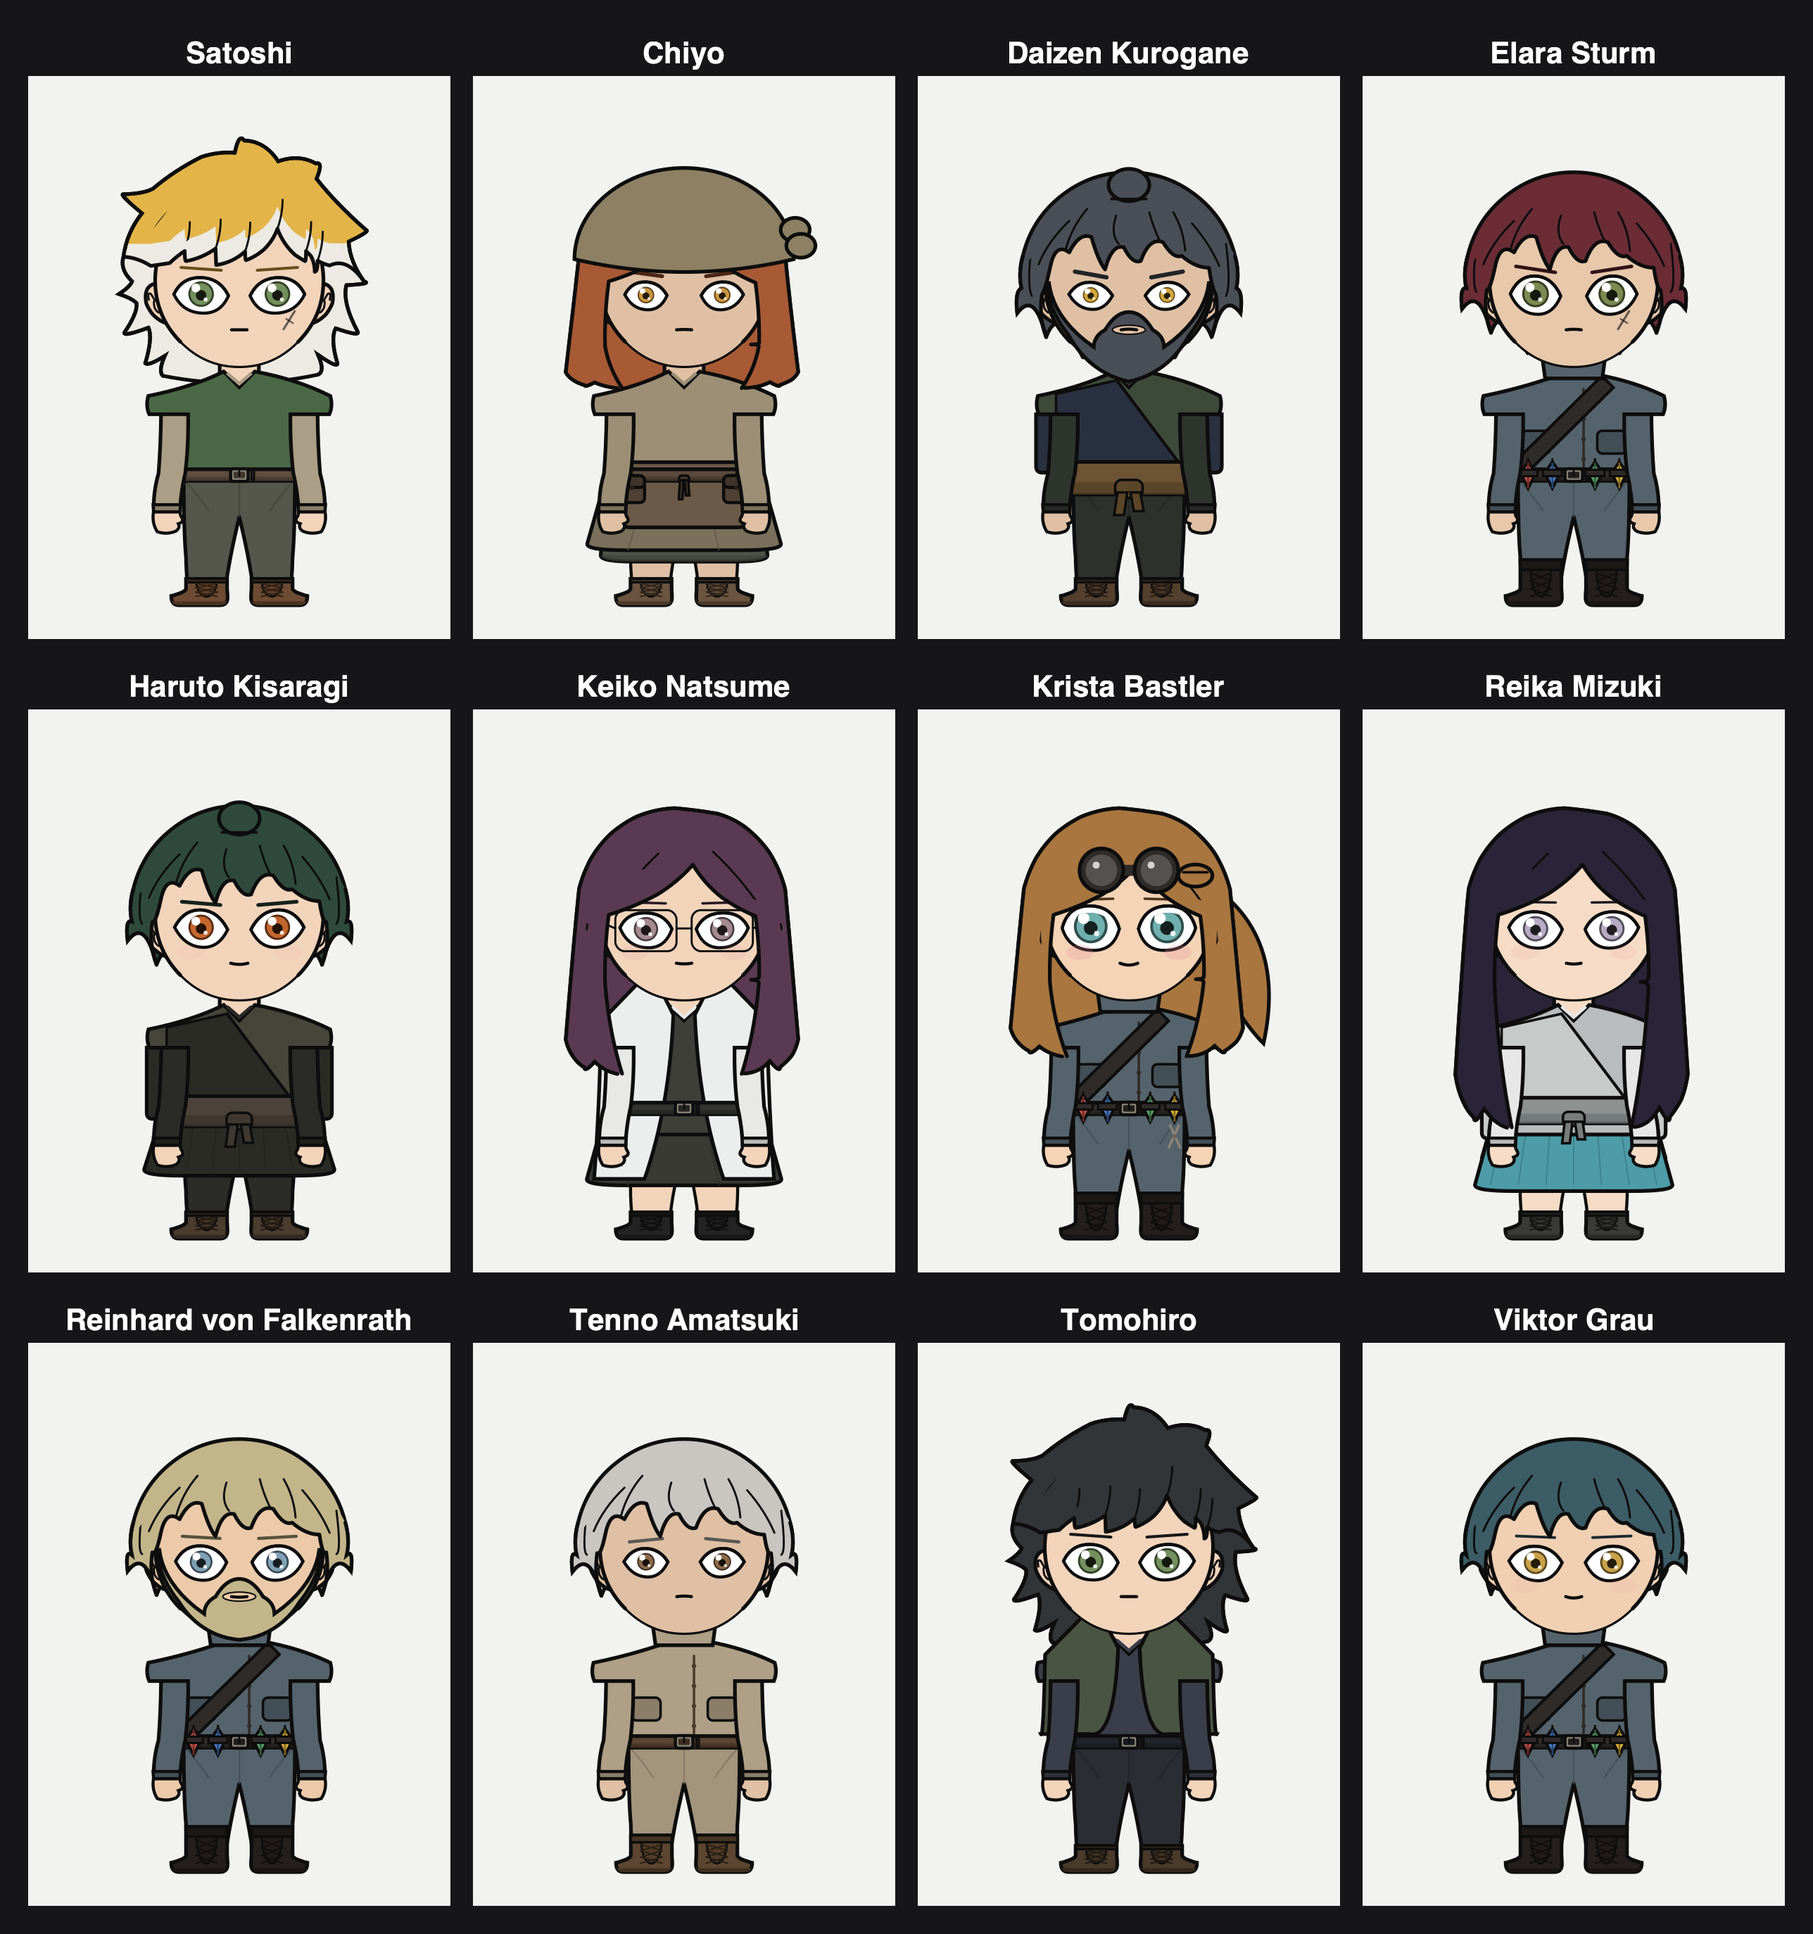
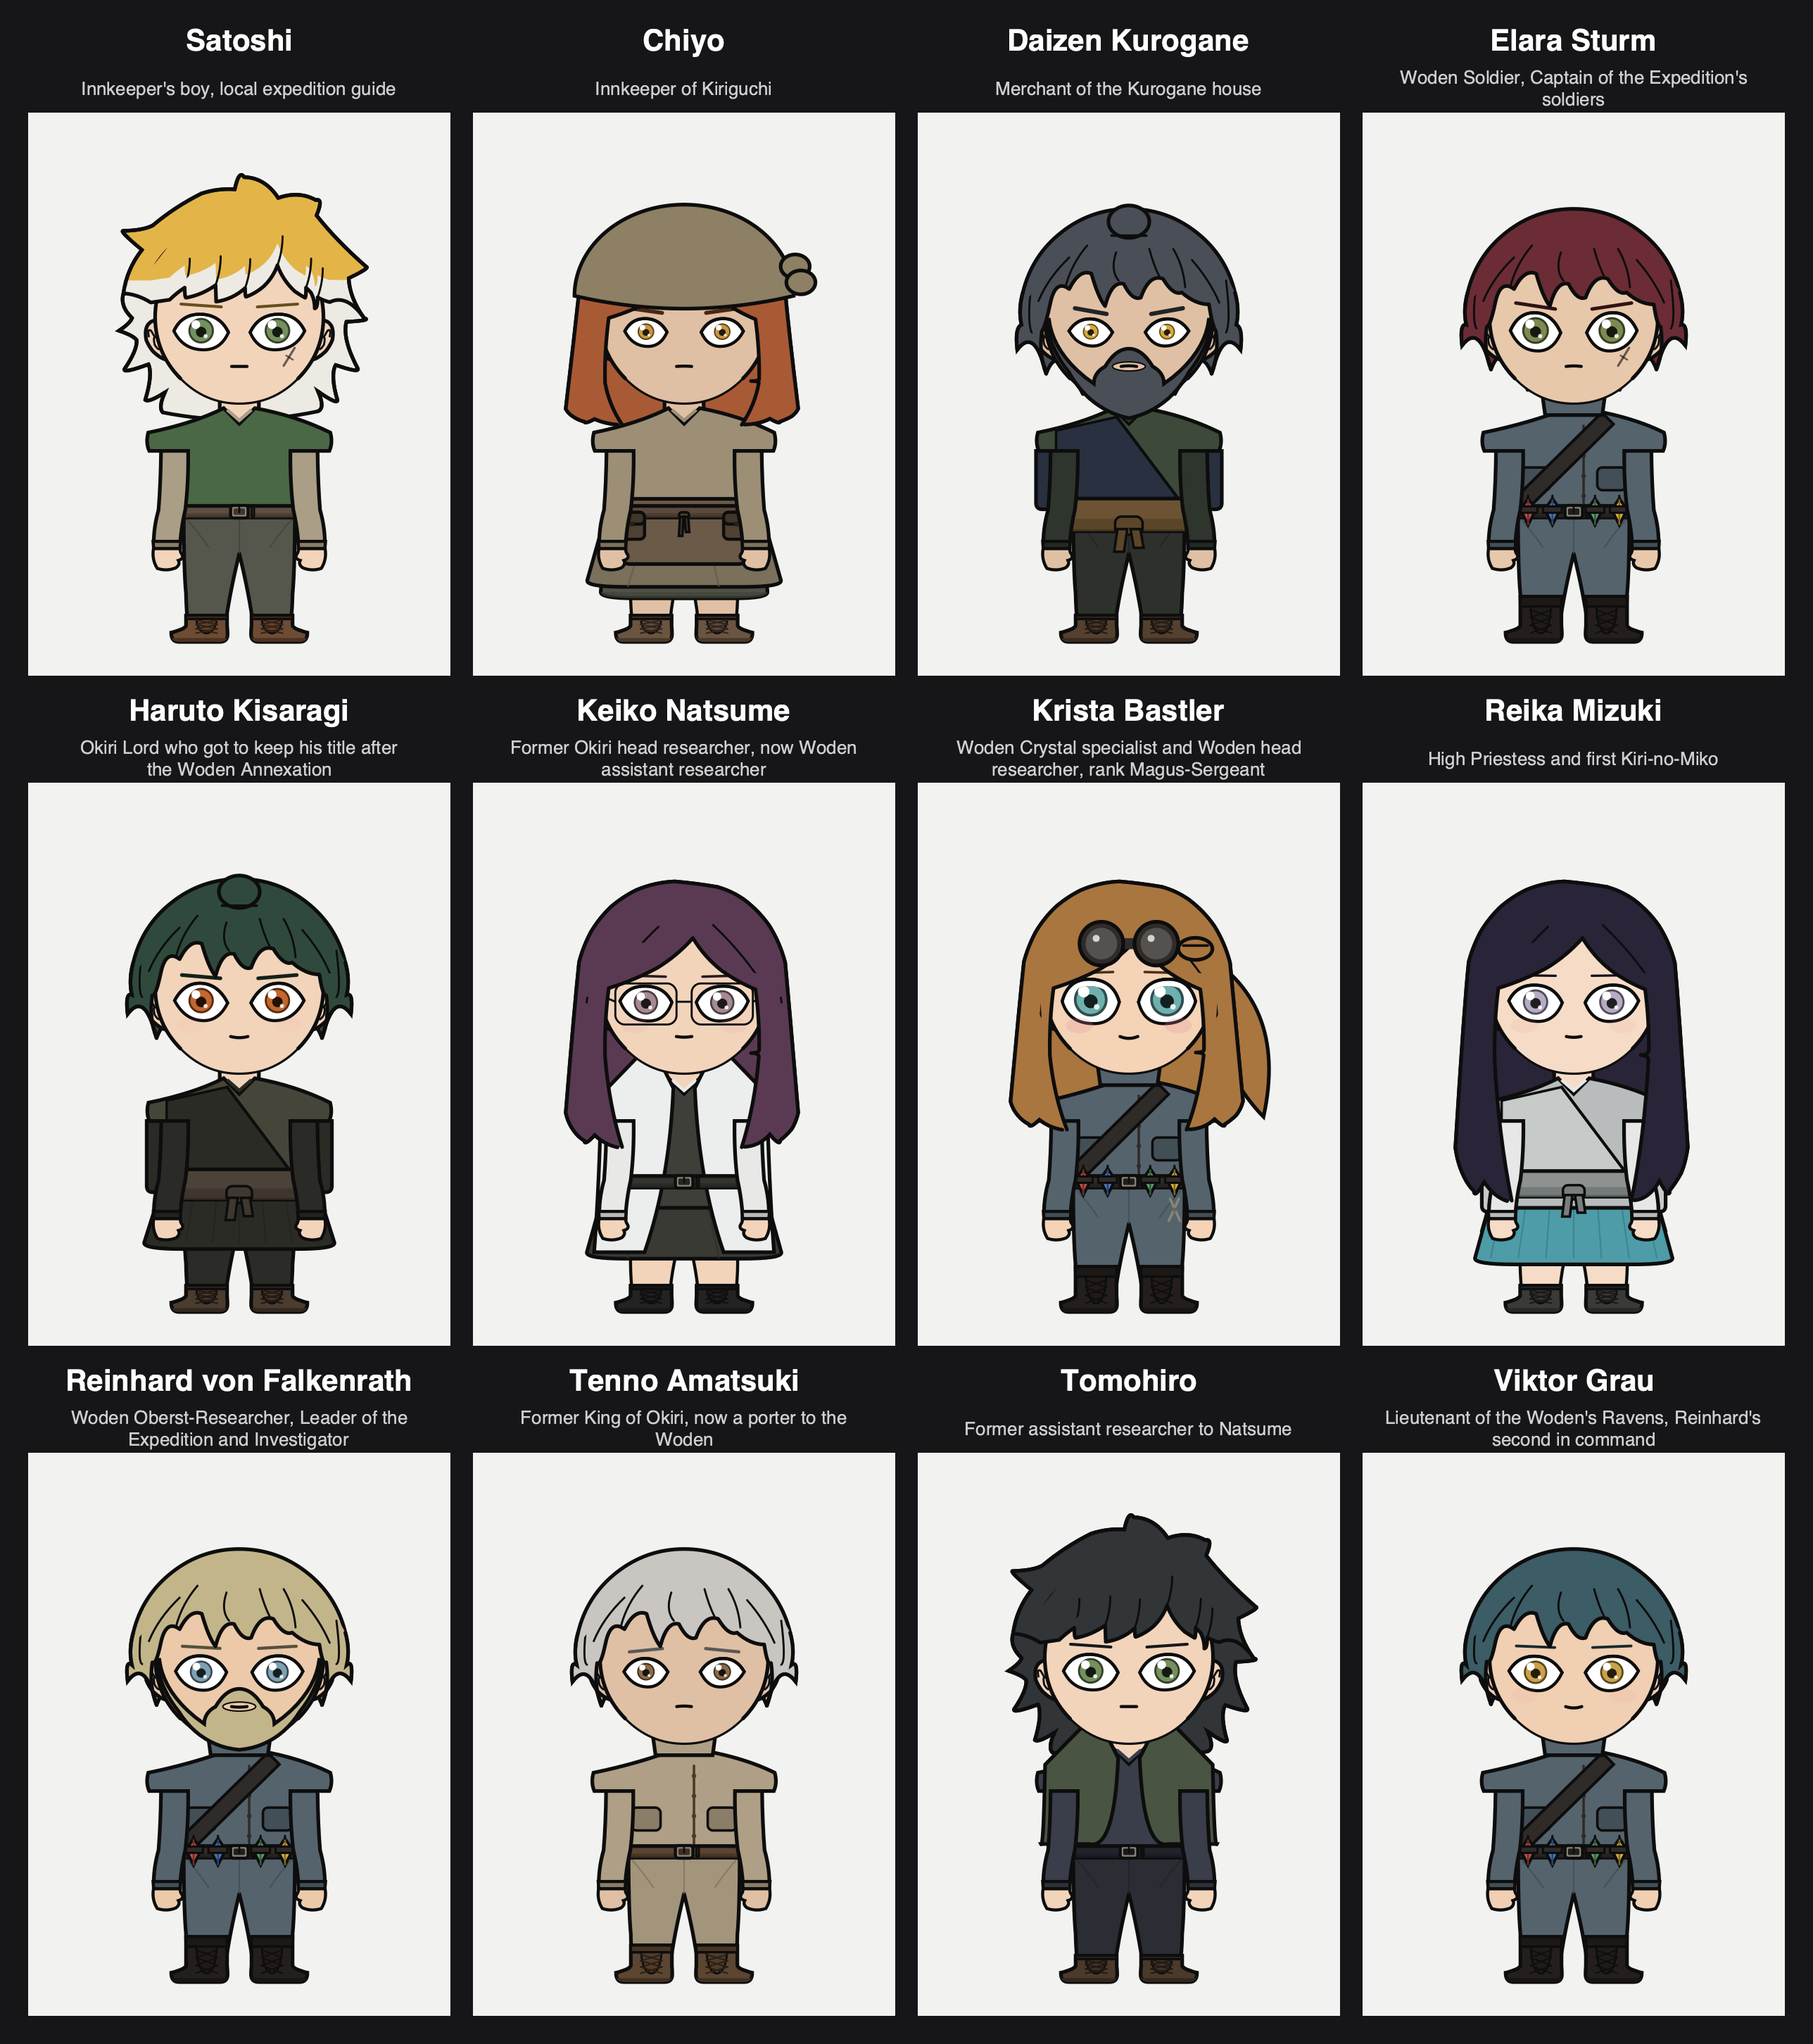
add character desceriptions to sheets

diff --git a/src/anime_character_creator/sheet.py b/src/anime_character_creator/sheet.py
@@ -39,6 +39,23 @@ from .character import OUTLINE, render_character
 from .presets import DISPLAY_NAMES, PRESETS, ROSTERS
 from .skeleton import BUILDS, build_skeleton
 
+CHARACTER_DESCRIPTIONS: dict[str, str] = {
+    "satoko": "Innkeeper's girl, local expedition guide",
+    "satoshi": "Innkeeper's boy, local expedition guide",
+    "kyoko": "Former assistant researcher to Natsume",
+    "tomohiro": "Former assistant researcher to Natsume",
+    "chiyo": "Innkeeper of Kiriguchi",
+    "daizen": "Merchant of the Kurogane house",
+    "elara": "Woden Soldier, Captain of the Expedition's soldiers",
+    "haruto": "Okiri Lord who got to keep his title after the Woden Annexation",
+    "keiko": "Former Okiri head researcher, now Woden assistant researcher",
+    "krista": "Woden Crystal specialist and Woden head researcher, rank Magus-Sergeant",
+    "reika": "High Priestess and first Kiri-no-Miko",
+    "reinhard": "Woden Oberst-Researcher, Leader of the Expedition and Investigator",
+    "tenno": "Former King of Okiri, now a porter to the Woden",
+    "viktor": "Lieutenant of the Woden's Ravens, Reinhard's second in command",
+}
+
 
 @dataclass(frozen=True)
 class SheetPalette:
@@ -75,8 +92,9 @@ class SheetParams:
     margin: float = 20.0
     # Room above each card for its name. A band rather than an overlay: a label
     # inside the card would sit on the figure at the sizes that matter.
-    label_h: float = 34.0
+    label_h: float = 60.0
     label_size: float = 21.0
+    description_size: float = 13.0
     label_font: str = "Helvetica, Arial, sans-serif"
     # How much of a tile's height the figure fills, and where its soles land.
     # Both fractions of the tile, so the figure keeps its place when a tile is
@@ -116,18 +134,62 @@ def _tile_origin(p: SheetParams, i: int) -> tuple[float, float]:
     return x, y
 
 
-def _label(p: SheetParams, name: str, x: float, y: float) -> str:
-    """The character's name, centred over its card.
+def _break_description(text: str, max_chars: int = 45) -> list[str]:
+    """Break description into lines, breaking at word boundaries."""
+    words = text.split()
+    lines = []
+    current_line = []
+    current_length = 0
+
+    for word in words:
+        word_length = len(word) + (1 if current_line else 0)
+        if current_length + word_length > max_chars and current_line:
+            lines.append(" ".join(current_line))
+            current_line = [word]
+            current_length = len(word)
+        else:
+            current_line.append(word)
+            current_length += word_length
+
+    if current_line:
+        lines.append(" ".join(current_line))
+
+    return lines
+
+
+def _label(p: SheetParams, preset: str, display_name: str, x: float, y: float) -> str:
+    """The character's name and role description, centred over its card.
 
     Plain fill, no outline. The cover's title needs a stroke because it sits on
     a picture; this sits on a flat dark ground where a stroke would only thicken
     the letters.
     """
-    return (
-        f'<text x="{x + p.tile_w / 2:.1f} " y="{y + p.label_h - 9:.1f}" text-anchor="middle" '
+    description = CHARACTER_DESCRIPTIONS.get(preset, "")
+    name_y = y + 16.0
+    desc_y = y + 32.0
+    name_svg = (
+        f'<text x="{x + p.tile_w / 2:.1f}" y="{name_y:.1f}" text-anchor="middle" '
         f'font-family="{p.label_font}" font-size="{p.label_size:.1f}" font-weight="bold" '
-        f'fill="{p.palette.label}">{name}</text>'
+        f'fill="{p.palette.label}">{display_name}</text>'
     )
+    desc_svg = ""
+    if description:
+        lines = _break_description(description, max_chars=45)
+        line_height = p.description_size * 1.2
+        start_y = desc_y - (len(lines) - 1) * line_height / 2
+
+        tspans = []
+        for line in lines:
+            tspans.append(
+                f'<tspan x="{x + p.tile_w / 2:.1f}" dy="{line_height:.1f}">{line}</tspan>'
+            )
+
+        desc_svg = (
+            f'\n    <text x="{x + p.tile_w / 2:.1f}" y="{start_y:.1f}" text-anchor="middle" '
+            f'font-family="{p.label_font}" font-size="{p.description_size:.1f}" '
+            f'fill="{p.palette.label}" opacity="0.8" font-style="italic">{"".join(tspans)}</text>'
+        )
+    return name_svg + desc_svg
 
 
 def _tile(p: SheetParams, preset: str, x: float, y: float) -> str:
@@ -151,7 +213,7 @@ def _tile(p: SheetParams, preset: str, x: float, y: float) -> str:
     return (
         f'<rect x="{x:.1f}" y="{top:.1f}" width="{p.tile_w:.1f}" height="{p.tile_h:.1f}" '
         f'fill="{p.palette.card}" />\n'
-        f"  {_label(p, DISPLAY_NAMES[preset], x, y)}\n"
+        f"  {_label(p, preset, DISPLAY_NAMES[preset], x, y)}\n"
         f'  <g transform="translate({fx:.1f} {fy:.1f}) scale({k:.4f})">\n  {body}\n  </g>'
     )
 
